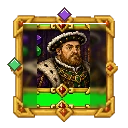
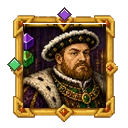
Update mission card visuals

diff --git a/index.html b/index.html
@@ -18,9 +18,9 @@
   --board-gap:8px;
   --mission-logo-size:60px;
   --table-surface-image:url('splendor-card-art/table-surface-frame.webp');
-  --mission-parchment-gold-image:url('splendor-card-art/mission-parchment-pinned-yellow-v5.webp?v=pin-map5');
-  --mission-parchment-silver-image:url('splendor-card-art/mission-parchment-pinned-white-v5.webp?v=pin-map5');
-  --mission-parchment-copper-image:url('splendor-card-art/mission-parchment-pinned-brown-v5.webp?v=pin-map5');
+  --mission-parchment-gold-image:url('splendor-card-art/mission-parchment-pinned-yellow-v7.webp?v=pin-map7');
+  --mission-parchment-silver-image:url('splendor-card-art/mission-parchment-pinned-white-v6.webp?v=pin-map6');
+  --mission-parchment-copper-image:url('splendor-card-art/mission-parchment-pinned-brown-v6.webp?v=pin-map6');
   --mission-parchment-image:var(--mission-parchment-gold-image);
 }
 body {
@@ -309,7 +309,7 @@ body {
 /* Mission cards */
 .mission-card {
   --mission-parchment-current:var(--mission-parchment-gold-image);
-  position:relative; border-radius:7px; padding:6px 13px 7px 11px; flex:0 0 256px; min-width:256px; max-width:256px;
+  position:relative; border-radius:7px; padding:6px 12px 7px 10px; flex:0 0 218px; min-width:218px; max-width:218px;
   display:flex; flex-direction:column; min-height:92px;
   border:0;
   background:transparent;
@@ -328,7 +328,7 @@ body {
 .mission-card.mission-pts-3 { --mission-parchment-current:var(--mission-parchment-gold-image); }
 .mission-card > * { position:relative; z-index:1; }
 .mission-layout {
-  display:flex; align-items:flex-start; gap:8px;
+  display:flex; align-items:flex-start; gap:5px;
   flex:1; min-width:0; position:relative; z-index:1;
 }
 .mission-side {
@@ -369,7 +369,7 @@ body {
 }
 .mission-name {
   display:block; width:100%; text-align:center;
-  font-size:.82em; font-weight:500; color:#2b1607; letter-spacing:.4px;
+  font-size:.94em; font-weight:500; color:#2b1607; letter-spacing:.4px;
   text-shadow:0 1px 0 rgba(255,225,151,.45);
   white-space:nowrap; overflow:hidden; text-overflow:ellipsis;
 }
@@ -383,7 +383,7 @@ body {
   margin-top:0; position:relative; z-index:1; white-space:nowrap;
 }
 .mission-token {
-  display:inline-flex; align-items:center; gap:2px; padding:1px 5px; flex:0 0 auto;
+  display:inline-flex; align-items:center; gap:2px; padding:1px 4px; flex:0 0 auto;
   border-radius:10px;
   background:linear-gradient(180deg,rgba(70,34,8,.18),rgba(45,22,6,.11));
   border:1px solid rgba(61,31,6,.24);
@@ -2055,7 +2055,7 @@ body.trump-deal-running #g-cards .deck-box.intro-dealing-source {
   }
   #g-right { gap:4px; padding:6px 22px 10px; }
   #g-cards { gap:4px; }
-  .mission-card { min-height:88px; padding:5px 12px 6px 10px; flex-basis:246px; min-width:246px; max-width:246px; }
+  .mission-card { min-height:88px; padding:5px 11px 6px 9px; flex-basis:209px; min-width:209px; max-width:209px; }
   .mission-name { font-size:.74em; }
   .mission-desc { font-size:.51em; }
   .mission-score { font-size:1.36em; }
@@ -2079,7 +2079,7 @@ body.trump-deal-running #g-cards .deck-box.intro-dealing-source {
   #g-main { padding-top:3px; padding-bottom:4px; }
   #g-right { gap:4px; padding:5px 18px 8px; }
   #g-cards { gap:4px; }
-  .mission-card { min-height:82px; padding:5px 11px 5px 9px; flex-basis:238px; min-width:238px; max-width:238px; }
+  .mission-card { min-height:82px; padding:5px 10px 5px 8px; flex-basis:202px; min-width:202px; max-width:202px; }
   .mission-desc { min-height:0; }
   .mission-score { font-size:1.28em; }
   .mp-bar { height:3px; }
@@ -2533,7 +2533,7 @@ body.trump-deal-running #g-cards .deck-box.intro-dealing-source {
     padding:18px 28px 4px 10px; scroll-snap-type:x proximity; -webkit-overflow-scrolling:touch;
   }
   .mission-card {
-    min-width:256px; max-width:268px; flex:0 0 256px;
+    min-width:218px; max-width:230px; flex:0 0 218px;
     min-height:92px; padding:6px 8px 7px; scroll-snap-align:start;
   }
   .mission-name { font-size:.74em; }
@@ -2665,7 +2665,7 @@ body.trump-deal-running #g-cards .deck-box.intro-dealing-source {
   }
   #g-players.players-4 { gap:6px; }
   #g-players .pi-timer-outer, #g-players .pi-card { min-width:0; }
-  .mission-card { min-width:256px; flex-basis:256px; }
+  .mission-card { min-width:218px; flex-basis:218px; }
   .card-top { padding:3px 4px; }
   .card-pts { font-size:1.02em; max-width:calc(var(--card-w) - 30px); }
   .card-body { padding:calc(var(--card-bar-h) + 4px) 3px 4px; }
@@ -3353,7 +3353,7 @@ body.trump-deal-running #g-cards .deck-box.intro-dealing-source {
 <!-- Ladder -->
 <div id="screen-ladder" style="display:none">
   <div class="setup-title">寶石天梯榜</div>
-  <div class="setup-sub">線上多人正常結算才會累積積分</div>
+  <div class="setup-sub">一般真人對戰正常結算才會累積積分</div>
   <div id="ladder-list" class="ladder-panel">
     <div class="ladder-empty">讀取寶石天梯榜中...</div>
   </div>
@@ -7027,7 +7027,7 @@ ALL_CARDS.forEach(card => {
   CARD_MIN_COST_BY_TIER_POINTS[tierKey] = Math.min(CARD_MIN_COST_BY_TIER_POINTS[tierKey] ?? rawCost, rawCost);
 });
 const CARD_ART_VERSION = 'gem-webp-fast-v2';
-const MISSION_ICON_VERSION = 'mission-icons-v8';
+const MISSION_ICON_VERSION = 'mission-icons-v9';
 const MISSION_PIN_VERSION = 'pin-v2';
 const GEM_CARD_ART = {};
 const GEM_FOLDER = {w:'white', u:'blue', g:'green', r:'red', k:'black'};
@@ -14226,7 +14226,7 @@ function showOverMod() {
   }).join('');
   const wn=G.winners.map(p=>htmlEsc(p.name)).join('、');
   const ladderNote = onlineMode
-    ? (G.normalEnd ? '本局為正常結算，寶石天梯榜積分會自動登錄。' : '本局不是正常結算，寶石天梯榜不計分。')
+    ? (isRankedLadderGame() ? '本局為一般真人對戰，寶石天梯榜積分會自動登錄。' : '本局不符合天梯計分條件，寶石天梯榜不計分。')
     : ((practiceMode || hasPracticeAiPlayers()) ? '練習模式不計入寶石天梯榜。' : '本機遊戲不計入寶石天梯榜。');
   const over = document.getElementById('m-over');
   const overButtonAction = isSpectator()
